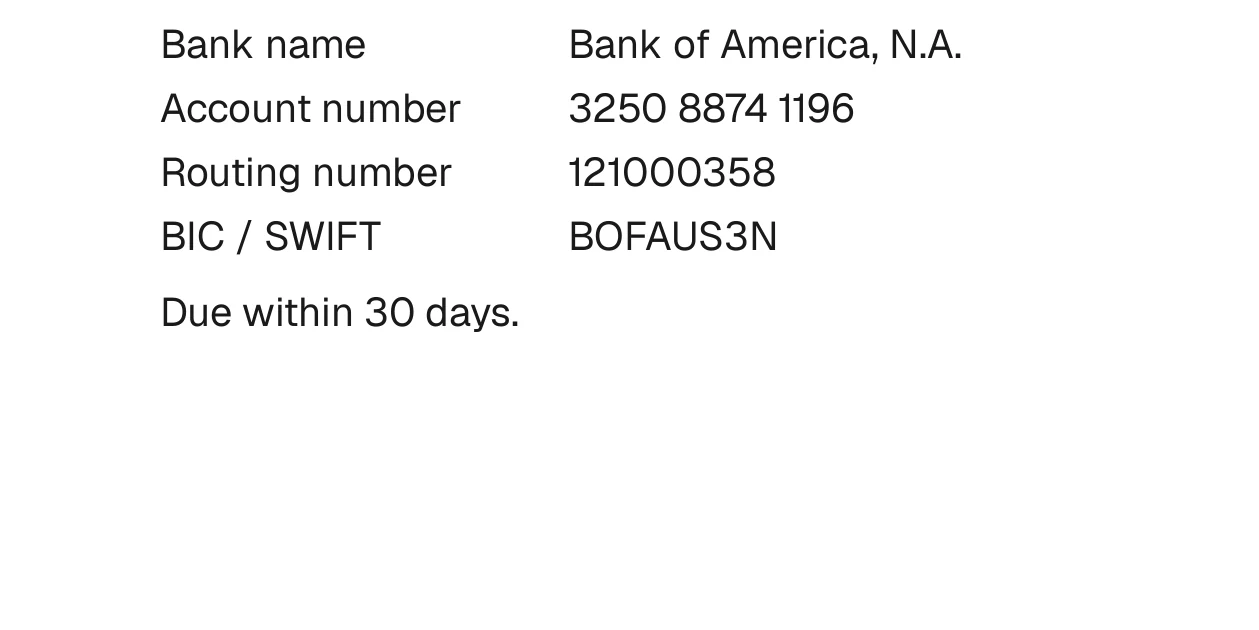
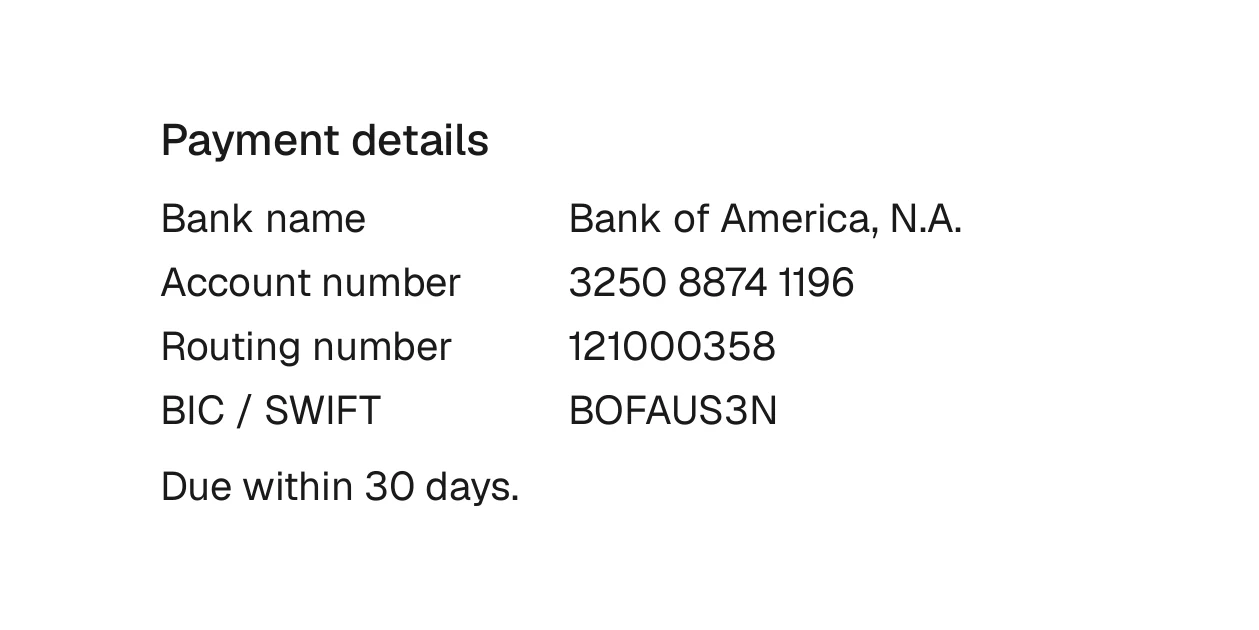
Polish homepage text wrapping and invoice crops

diff --git a/app/routes/index.tsx b/app/routes/index.tsx
@@ -76,7 +76,9 @@ const HEADING = "font-semibold tracking-tight text-balance";
 // Single-line controls: buttons, labels, nav links.
 const CONTROL_TEXT = typeClass("body", "compact");
 
-const BODY_TEXT = cn("text-pretty text-zinc-600", typeClass("body"));
+// Balanced so short copy never ends on a stub of a line; past six lines
+// browsers fall back to normal wrapping.
+const BODY_TEXT = cn("text-balance text-zinc-600", typeClass("body"));
 
 const SECTIONS = [
   { href: "#try-it", label: "Try it" },
@@ -946,7 +948,10 @@ function Features() {
         />
         <dl className="mt-12 grid gap-x-6 gap-y-12 sm:mt-16 md:grid-cols-2">
           {FEATURES.map(feature => (
-            <div key={feature.title} className="flex flex-col gap-6">
+            <div
+              key={feature.title}
+              className="row-span-2 grid grid-rows-subgrid gap-6"
+            >
               <div
                 aria-hidden="true"
                 className={cn(
@@ -971,7 +976,7 @@ function Features() {
           <h3 className={cn(typeClass("subtitle"), "font-medium")}>
             Also in the editor
           </h3>
-          <ul className="grid gap-x-6 gap-y-4 sm:grid-cols-2 lg:grid-cols-4">
+          <ul className="grid gap-x-6 gap-y-4 sm:grid-cols-2 xl:grid-cols-4">
             {MORE_FEATURES.map(feature => (
               <li
                 key={feature}
@@ -1137,7 +1142,7 @@ function Comparison() {
       <div className={CONTAINER}>
         <SectionHeading
           title="How billsend compares."
-          description="billsend makes the invoice and stops there. If you want invoices emailed for you and payments tracked, accounting software does that."
+          description="billsend makes the invoice and stops there. To email invoices and track payments, you want accounting software."
           isCentered
         />
         <div
@@ -1181,7 +1186,7 @@ function Comparison() {
                     role="rowheader"
                     className={cn(
                       typeClass("body"),
-                      "col-span-3 pt-4 text-pretty text-zinc-950 md:col-span-1 md:py-4 md:pr-6"
+                      "col-span-3 pt-4 text-balance text-zinc-950 md:col-span-1 md:py-4 md:pr-6"
                     )}
                   >
                     {row.label}
@@ -1289,7 +1294,9 @@ function Questions() {
                         aria-hidden="true"
                       />
                     </summary>
-                    <p className={cn(BODY_TEXT, "max-w-[64ch] pb-6")}>
+                    <p
+                      className={cn(BODY_TEXT, "max-w-[64ch] pb-6 text-pretty")}
+                    >
                       {item.answer}
                     </p>
                   </details>
@@ -1335,7 +1342,7 @@ function Closing({ font }: { font: InvoiceFont }) {
             <p
               className={cn(
                 typeClass("body"),
-                "max-w-[44ch] text-pretty text-zinc-500"
+                "max-w-[44ch] text-balance text-zinc-500"
               )}
             >
               {caption}

diff --git a/components/home/pdf-renders.ts b/components/home/pdf-renders.ts
@@ -19,15 +19,16 @@ export const PDF_RENDERS = {
     crop: { x: 0, y: 0, width: 793.7, height: 1122.5 },
     width: 1600
   },
-  // The totals, up to the page's right edge.
+  // The totals, up to the page's right edge, and the payment details with
+  // their label, from the page's left edge. Each crop centres its block's ink
+  // (totals 592 to 711, payment 673 to 801), so the two cards frame alike.
   totals: {
     src: "/home/invoice-totals.webp",
-    crop: { x: 374, y: 592, width: 419.7, height: 209.85 }
+    crop: { x: 374, y: 546.7, width: 419.7, height: 209.85 }
   },
-  // The payment details, from the page's left edge.
   payment: {
     src: "/home/invoice-payment.webp",
-    crop: { x: 0, y: 690, width: 419.7, height: 209.85 }
+    crop: { x: 0, y: 631.9, width: 419.7, height: 209.85 }
   }
 };
 

diff --git a/scripts/render-homepage-invoices.tsx b/scripts/render-homepage-invoices.tsx
@@ -79,9 +79,16 @@ const HERO_INVOICE = sampleInvoice({
       "Harbor & Pine Co.\n1120 NW Couch Street, Suite 400\nPortland, OR 97209",
     placeholder: ""
   },
+  // Enough rows that the table runs past the hero panel's foot at every
+  // width, which shows down to about 670 page pixels on a phone.
   items: items([
     ["Editorial illustrations", 3, "pcs", 600],
-    ["Cover artwork", 1, "pcs", 950]
+    ["Cover artwork", 1, "pcs", 950],
+    ["Spot illustrations", 6, "pcs", 175],
+    ["Concept sketches", 4, "pcs", 120],
+    ["Revisions", 3, "hrs", 85],
+    ["Print and web license", 1, "ea", 400],
+    ["Print-ready files", 1, "ea", 150]
   ]),
   discounts: 10,
   discountType: "percentage",
